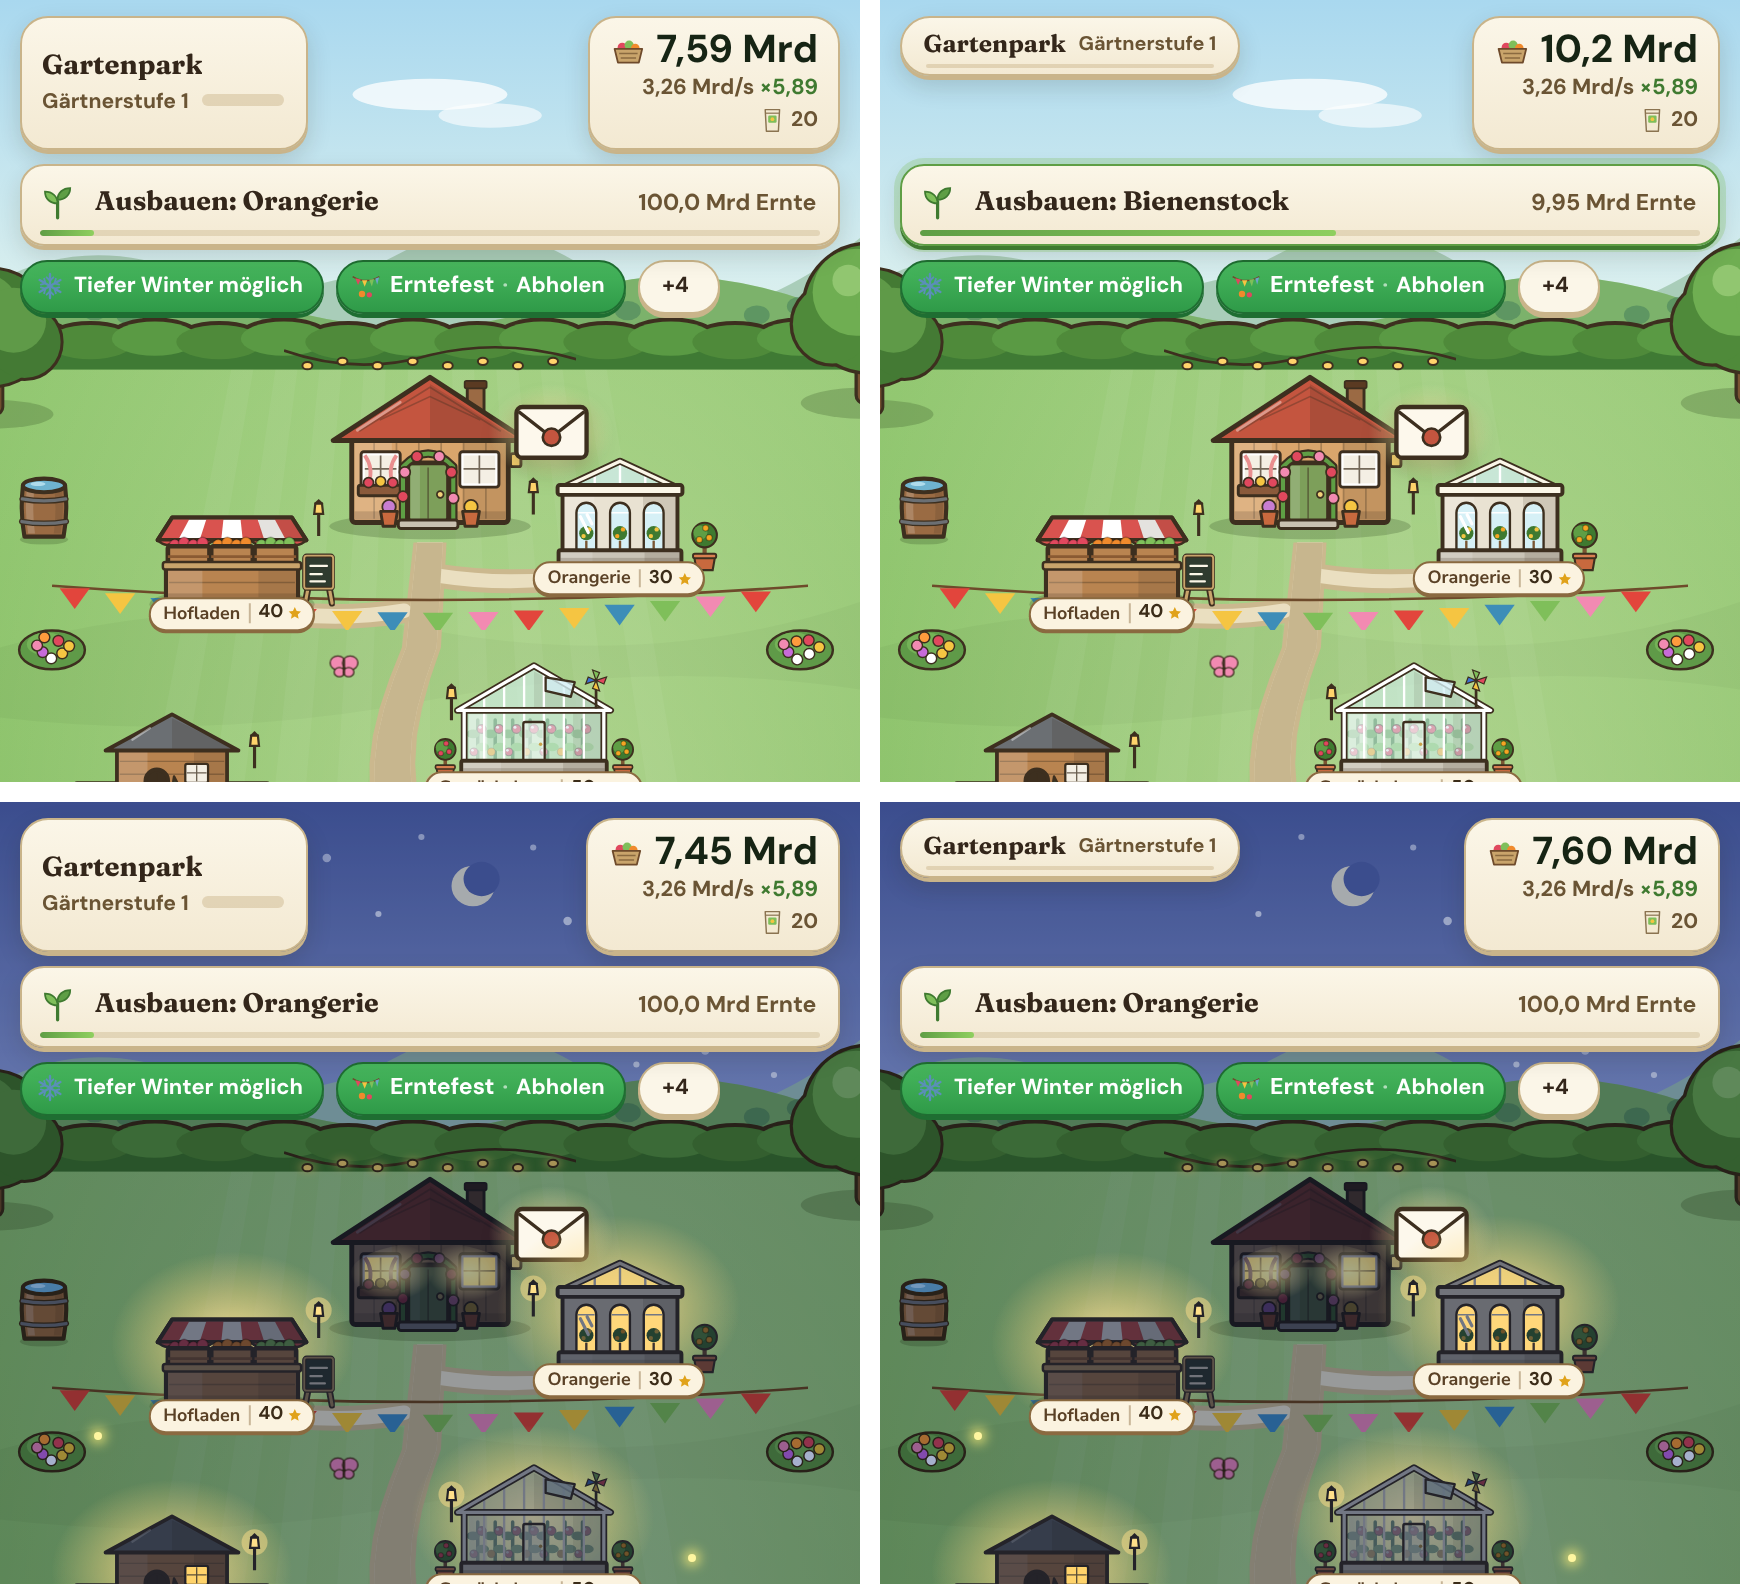
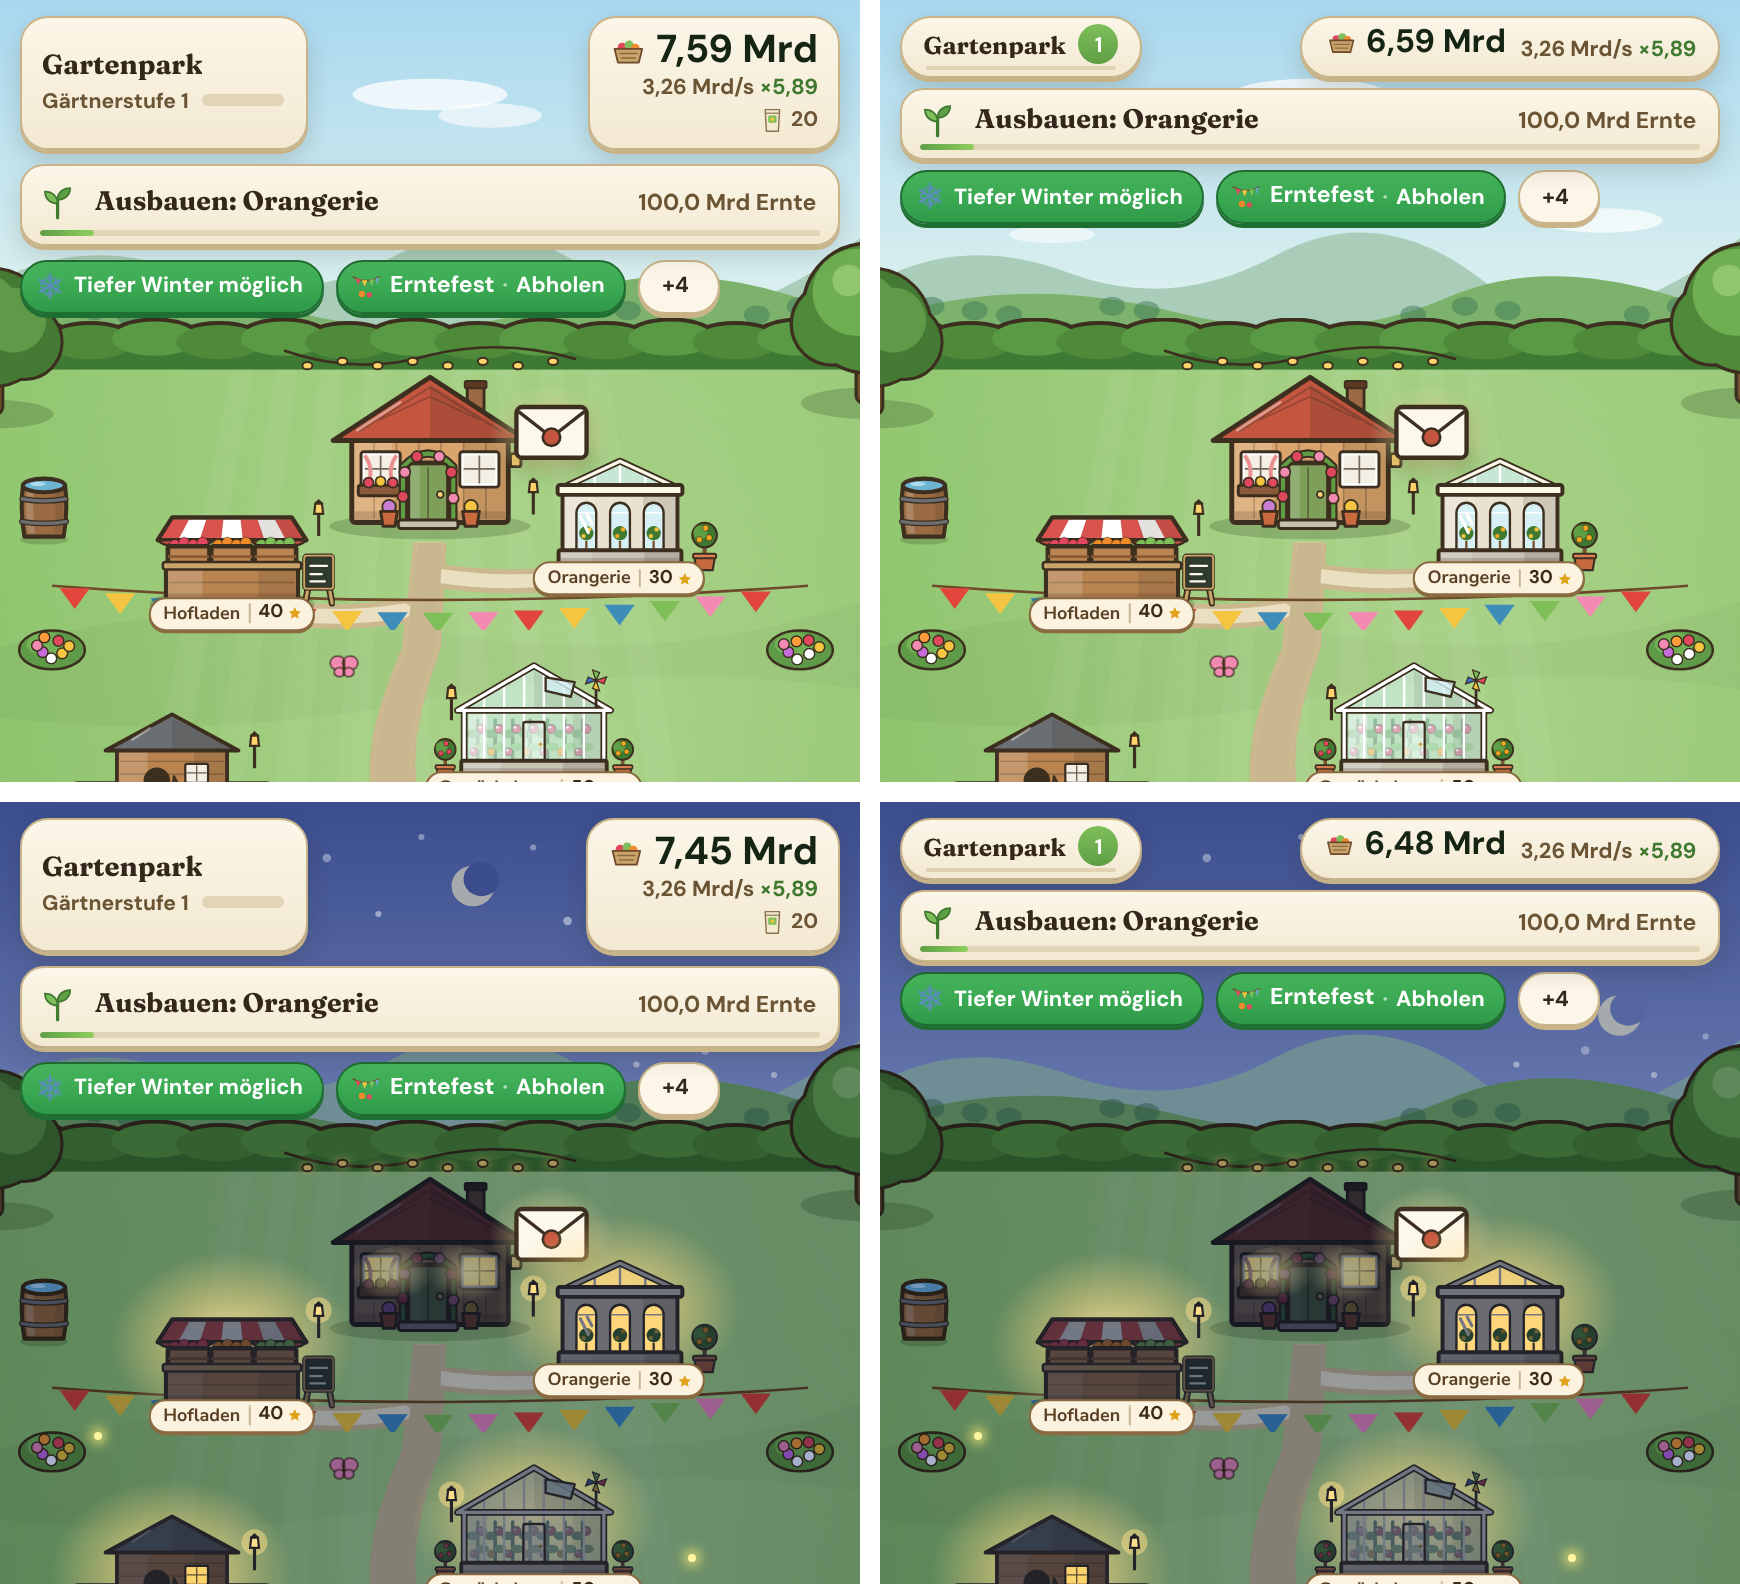
Vorschlag Kopfleiste: eine Zeile, Ernte und Ernte/s nebeneinander
Nur auf dem Branch, zur Entscheidung (docs/grafik/probe-kopfleiste*.png).
Gilt nur im Hauptgarten; Samen und Erbstücke stehen nicht mehr oben.

Claude-Session: https://claude.ai/code/session_01LAeY2eLJgwXNQEEr1JGNmn

Changed region(s): [[0.4966, 0.0, 0.9931, 0.2165], [0.4966, 0.4949, 0.9931, 0.7115]]

diff --git a/src/theme/hud.css b/src/theme/hud.css
@@ -57,54 +57,49 @@
   font: inherit;
 }
 
-/* Gartenstufe: schmale Pille oben links — lässt den Himmel der Kulisse frei */
+/* Gartenstufe */
 .hud-garden {
   display: flex;
-  flex-direction: row;
-  align-items: center;
-  align-self: flex-start;
-  gap: 0.4rem;
+  flex-direction: column;
+  align-items: flex-start;
+  justify-content: center;
+  gap: 0.18rem;
   min-width: 0;
   max-width: 56%;
-  min-height: 1.9rem;
-  padding: 0.2rem 0.7rem 0.34rem;
-  border-radius: 999px;
   text-align: left;
   cursor: pointer;
 }
 
 .hud-stage {
-  min-width: 0;
+  max-width: 100%;
   overflow: hidden;
   text-overflow: ellipsis;
   white-space: nowrap;
   font-family: var(--ge-font-display);
   font-weight: 700;
-  font-size: 0.76rem;
+  font-size: 0.86rem;
   line-height: 1.1;
 }
 
 .hud-level {
   display: flex;
-  flex: none;
   align-items: center;
+  gap: 0.4rem;
+  width: 100%;
 }
 
 .hud-level-label {
   flex: none;
   font-family: var(--ge-font-metric);
-  font-size: 0.62rem;
+  font-size: 0.66rem;
   font-weight: 700;
   color: var(--hud-ink-soft);
 }
 
-/* Fortschritt zur nächsten Stufe als feine Linie am unteren Rand der Pille */
 .hud-xp {
-  position: absolute;
-  left: 0.8rem;
-  right: 0.8rem;
-  bottom: 0.2rem;
-  height: 0.16rem;
+  flex: 1;
+  min-width: 2.6rem;
+  height: 0.36rem;
   border-radius: 999px;
   background: color-mix(in srgb, var(--hud-edge) 45%, transparent);
   overflow: hidden;
@@ -739,4 +734,87 @@
   font-family: var(--ge-font-metric);
   font-weight: 700;
   color: var(--ge-gruen-dunkel);
+}
+
+/* —— Schlanke Kopfleiste im Hauptgarten (Vorschlag 2026-11-14) ——
+   Eine Zeile oben: Gartenstufe als Pille, Ernte und Ernte/s nebeneinander.
+   Samen und Erbstücke stehen nicht mehr hier (sie gehören zu Markt und Saison).
+   Die Kapitel-Karte behält die bisherige Kopfleiste. */
+.hud-slim {
+  gap: 0.3rem;
+}
+
+.hud-slim .hud-row {
+  align-items: center;
+}
+
+.hud-slim .hud-card {
+  min-height: 1.9rem;
+  padding: 0.18rem 0.7rem 0.3rem;
+  border-radius: 999px;
+}
+
+.hud-slim .hud-garden {
+  flex-direction: row;
+  align-items: center;
+  gap: 0.4rem;
+  max-width: 42%;
+}
+
+.hud-slim .hud-stage {
+  min-width: 0;
+  font-size: 0.76rem;
+}
+
+.hud-slim .hud-level {
+  flex: none;
+  width: auto;
+}
+
+/* Stufe als runde Plakette */
+.hud-slim .hud-level-label {
+  display: inline-flex;
+  align-items: center;
+  justify-content: center;
+  min-width: 1.25rem;
+  height: 1.25rem;
+  padding: 0 0.28rem;
+  border-radius: 999px;
+  background: linear-gradient(180deg, #7fbf5a, #5f9e45);
+  color: #fff;
+  font-size: 0.66rem;
+}
+
+/* Fortschritt zur nächsten Stufe als feine Linie am unteren Rand */
+.hud-slim .hud-xp {
+  position: absolute;
+  left: 0.8rem;
+  right: 0.8rem;
+  bottom: 0.17rem;
+  min-width: 0;
+  height: 0.15rem;
+}
+
+.hud-slim .hud-wallet {
+  flex-direction: row;
+  align-items: baseline;
+  gap: 0.45rem;
+  min-width: 0;
+}
+
+.hud-slim .hud-amount {
+  font-size: 1.02rem;
+}
+
+.hud-slim .hud-amount-icon {
+  font-size: 0.98rem;
+  align-self: center;
+}
+
+.hud-slim .hud-sub {
+  display: none;
+}
+
+.hud-slim .hud-goal {
+  min-height: 2.15rem;
 }

diff --git a/src/theme/MapBackdrop.tsx b/src/theme/MapBackdrop.tsx
@@ -653,14 +653,15 @@ export const MapBackdrop = memo(function MapBackdrop({ stage, ambient, skin, fes
             {[[38, 3.2], [44, 6.4], [62, 2.6], [66, 6.8], [49, 2], [74, 15], [82, 14.2], [90, 15.6], [96, 13.4], [70, 16.4], [6, 15.4], [14, 16.2]].map(([x, y], i) => (
               <ellipse key={i} cx={x} cy={y} rx={i % 3 ? 0.36 : 0.5} ry={i % 3 ? 0.17 : 0.24} fill="#ffffff" opacity={i % 2 ? 0.9 : 0.7} className={i % 4 === 0 ? 'fest-twinkle' : undefined} />
             ))}
-            <ellipse cx="55" cy="4.8" rx="2.5" ry="1.16" fill="#fff6d8" />
-            <ellipse cx="56" cy="4.4" rx="2.1" ry="0.98" fill={skyTop} />
+            <ellipse cx="86" cy="12.2" rx="2.5" ry="1.16" fill="#fff6d8" />
+            <ellipse cx="87" cy="11.8" rx="2.1" ry="0.98" fill="#8494c8" />
           </g>
         ) : (
           <g>
             <ellipse cx="50" cy="5.4" rx="9" ry="0.9" fill="#ffffff" opacity="0.75" />
             <ellipse cx="57" cy="6.6" rx="6" ry="0.7" fill="#ffffff" opacity="0.6" />
-            <ellipse cx="84" cy="17.4" rx="7" ry="0.6" fill="#ffffff" opacity="0.55" />
+            <ellipse cx="84" cy="12.6" rx="7" ry="0.7" fill="#ffffff" opacity="0.7" />
+            <ellipse cx="20" cy="13.4" rx="5" ry="0.5" fill="#ffffff" opacity="0.55" />
           </g>
         )}
         {/* ferne Hügel (im Winter verschneit), nahe Hügel mit Obstbäumen */}

diff --git a/src/components/map/MapHud.tsx b/src/components/map/MapHud.tsx
@@ -47,7 +47,7 @@ export function MapHud({
 }: Props) {
   const { state, rate, playerLevel } = game
   return (
-    <header className="hud" ref={hudRef}>
+    <header className="hud hud-slim" ref={hudRef}>
       <div className="hud-row">
         <button
           type="button"
@@ -61,7 +61,8 @@ export function MapHud({
           <span className="hud-stage">{stageName}</span>
           <span className="hud-level">
             <span className="hud-level-label">
-              {t.level.short} {playerLevel.level}
+              <span className="sr-only">{t.level.short} </span>
+              {playerLevel.level}
             </span>
             <span className="hud-xp" aria-hidden="true">
               <span style={{ width: `${Math.round(playerLevel.ratio * 100)}%` }} />
